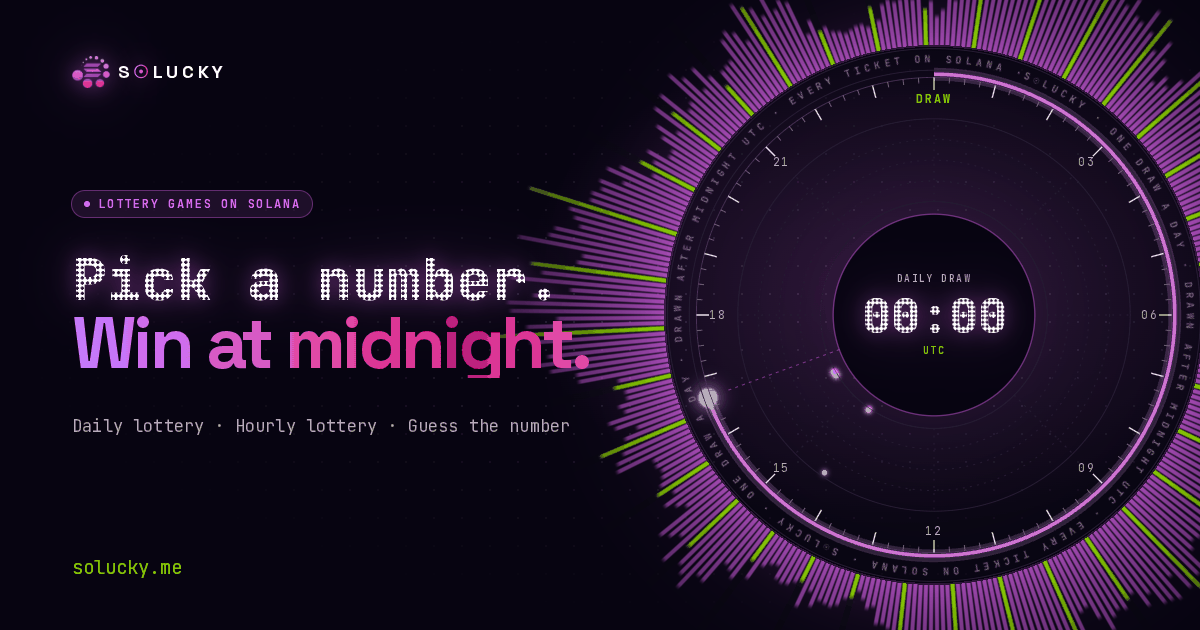
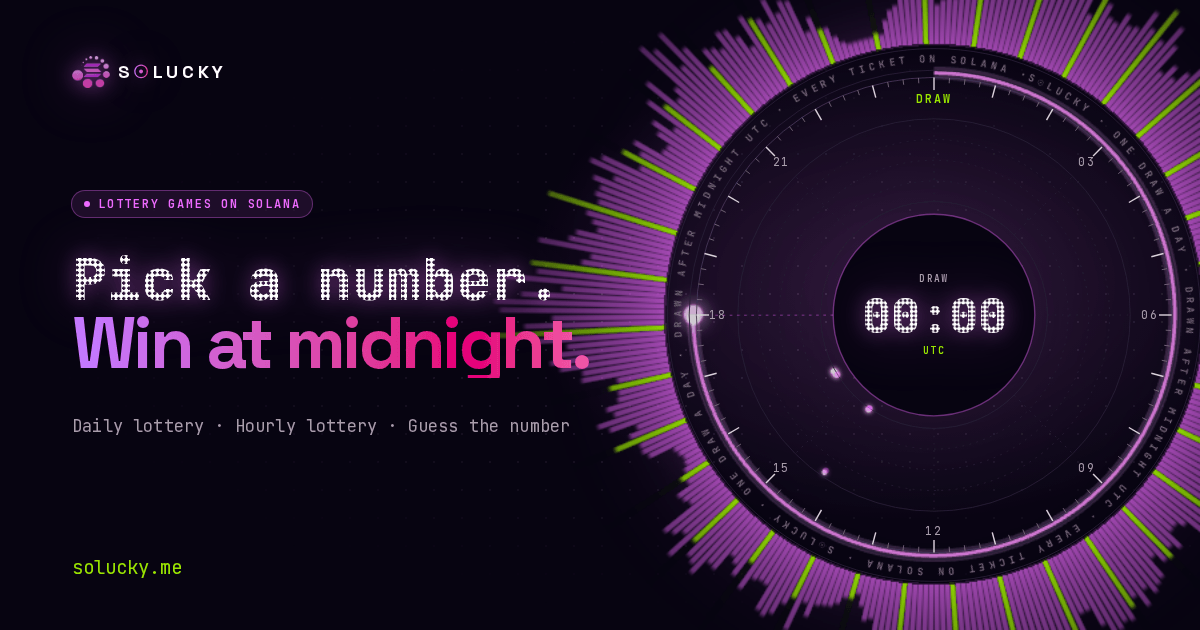
chore(scripts): add the og script for the share card
bun run og <site URL> lays out the landing's hero as the 1200×630 card at app/public/og.png with Playwright and sharp (a new dev dependency). The image is retaken with it, and README and AGENTS.md document the script.

diff --git a/scripts/og.ts b/scripts/og.ts
@@ -1,0 +1,133 @@
+/**
+ * The image that shared links show (app/public/og.png, 1200×630): the
+ * landing's hero, laid out as a card and taken from a running site. Retake it
+ * when the hero changes.
+ *
+ *   bun run og                       the app on http://127.0.0.1:3000
+ *   bun run og https://solucky.me    the live site
+ *
+ * The card keeps what lasts: the headline, the games, and the dial with its
+ * draw time, not today's pot or countdown, which would be stale wherever the
+ * card is shared. It follows the hero's markup in app/app/pages/index.vue and
+ * components/landing/DialLive.vue; change it with them.
+ *
+ * Uses Playwright's Chromium (`bunx playwright install chromium`), or the
+ * browser at CHROME_PATH. Without WebGL 2 the card gets the flat 2D dial.
+ */
+import { chromium } from '@playwright/test';
+import sharp from 'sharp';
+
+import en from '../app/i18n/locales/en';
+
+const site = (process.argv[2] ?? 'http://127.0.0.1:3000').replace(/\/$/, '');
+const file = new URL('../app/public/og.png', import.meta.url).pathname;
+
+const words = {
+  // The live site's address, whichever site the card is taken from.
+  address: 'solucky.me',
+  games: [en.games.daily.name, en.games.hourly.name, en.games.guess.name].join(' · '),
+  draw: en.dial.draw,
+  pot: en.dial.pot,
+  beta: en.header.beta,
+};
+
+const browser = await chromium.launch({ executablePath: process.env.CHROME_PATH });
+const page = await browser.newPage({ viewport: { width: 1200, height: 630 }, colorScheme: 'dark', locale: 'en-US' });
+await page.addInitScript(() => {
+  try {
+    localStorage.setItem('nuxt-color-mode', 'dark');
+  } catch {
+    // about:blank has no storage.
+  }
+});
+await page.goto(site);
+// Today's pot (and the tickets with it) loads after the page.
+await page.waitForFunction(
+  (label) => {
+    const readout = [...document.querySelectorAll('.dial-rise p')].find((p) => p.textContent?.trim() === label);
+    return (readout?.parentElement?.querySelectorAll('.led').length ?? 0) >= 2;
+  },
+  words.pot,
+  { timeout: 60_000 },
+);
+// The 3D dial starts once the page is idle; without WebGL 2 it never does.
+await page.waitForSelector('.landing[data-orrery]', { timeout: 15_000 }).catch(() => {});
+// The headline's entrance and the 3D dial's fade-in.
+await page.waitForTimeout(3_000);
+const orrery = await page.evaluate(layOut, words);
+// The 3D dial eases to the dial's new place.
+await page.waitForTimeout(3_000);
+const shot = await page.screenshot();
+await browser.close();
+
+// A 256-colour palette keeps the file small; the card has few colours.
+await sharp(shot).png({ palette: true, colours: 256, dither: 1, effort: 10 }).toFile(file);
+console.log(`app/public/og.png${orrery ? '' : ' (with the 2D dial: no WebGL 2 in this browser)'}`);
+
+/** Runs in the page: lays the hero out as the card. Returns whether the 3D dial is showing. */
+function layOut(words: { address: string; games: string; draw: string; pot: string; beta: string }) {
+  const hero = document.querySelector<HTMLElement>('section[data-beat="hero"]');
+  const container = hero?.querySelector<HTMLElement>(':scope > div:not([aria-hidden])');
+  const text = container?.firstElementChild as HTMLElement | null;
+  const dial = hero?.querySelector<HTMLElement>('.dial-rise');
+  const label = [...(dial?.querySelectorAll('p') ?? [])].find((p) => p.textContent?.trim() === words.pot);
+  const readout = label?.parentElement;
+  const logo = document.querySelector('header a[href="/"]')?.cloneNode(true) as HTMLElement | undefined;
+  if (!hero || !container || !text || !dial || !readout || !logo) {
+    throw new Error('The hero changed: update scripts/og.ts to its markup.');
+  }
+  const [pot, countdown] = readout.querySelectorAll<HTMLElement>('.led');
+  if (!pot || !countdown) throw new Error("Today's pot has not loaded yet: try again.");
+
+  // The logo, without the Beta badge: the card outlives it.
+  for (const el of logo.querySelectorAll('*')) if (el.textContent?.trim() === words.beta) el.remove();
+  logo.classList.add('og-logo');
+  text.prepend(logo);
+
+  const games = document.createElement('p');
+  games.className = 'og-games font-mono text-muted';
+  games.textContent = words.games;
+  const address = document.createElement('p');
+  address.className = 'og-address font-mono text-secondary';
+  address.textContent = words.address;
+  text.append(games, address);
+
+  // The dial's middle: the draw's time instead of today's pot and countdown.
+  label.textContent = words.draw;
+  pot.textContent = '00:00';
+  countdown.remove();
+  readout.querySelector('.text-muted')?.remove();
+  const day = readout.lastElementChild;
+  if (day) day.textContent = 'UTC';
+  // The scale's ends: 0 and the cluster's highest number, which differs between clusters.
+  [...dial.querySelectorAll('svg g')].find((g) => g.querySelector('text')?.textContent?.trim() === '0')?.remove();
+
+  const style = document.createElement('style');
+  style.textContent = `
+    header, .section-index, [id^='nuxt-devtools'], nuxt-devtools-frame { display: none !important; }
+    html, body { overflow: hidden !important; }
+    section[data-beat='hero'] { height: 630px; }
+    section[data-beat='hero'] ~ * { display: none !important; }
+    section[data-beat='hero'] > div[aria-hidden] > div:last-child { display: none; }
+    section[data-beat='hero'] > div:not([aria-hidden]) {
+      position: relative; display: block; max-width: none; height: 630px; padding: 0;
+    }
+    section[data-beat='hero'] > div:not([aria-hidden]) > div:first-child {
+      position: absolute; inset-block: 0; left: 72px; width: 620px;
+      display: flex; flex-direction: column; align-items: flex-start; justify-content: center;
+    }
+    section[data-beat='hero'] > div:not([aria-hidden]) > div:first-child > :is(p.text-lg, div.mt-8, div.mt-10) {
+      display: none;
+    }
+    .og-logo { position: absolute; top: 56px; left: 0; }
+    .og-games { margin-top: 2.25rem; font-size: 17px; letter-spacing: 0.01em; }
+    .og-address { position: absolute; bottom: 48px; left: 0; font-size: 19px; }
+    .dial-rise { position: absolute !important; left: 664px; top: 45px; width: 540px; max-width: none !important; margin: 0 !important; }
+    .dial-rise > :not(:first-child) { display: none !important; }
+    .animate-blink { animation: none !important; opacity: 1 !important; }
+  `;
+  document.head.append(style);
+  scrollTo(0, 0);
+  dispatchEvent(new Event('resize'));
+  return document.querySelector('.landing')?.hasAttribute('data-orrery') ?? false;
+}

diff --git a/README.md b/README.md
@@ -139,7 +139,7 @@ The program address in the code, `GC81vFcGhBvT9poUzXAFqvfZ8rnAqGVmKUPehrXLq6ux` 
    bun run admin status
    ```
    Later changes: `bun run admin game <daily|hourly|guess> --price <SOL> --fee-bps <n>`, and `bun run admin set --max-number <n>`, `--treasury <ADDRESS>`, `--authority <ADDRESS>`, `--pause`, `--resume`.
-3. **App.** `bun run deploy` builds for Cloudflare Workers and deploys with [`app/wrangler.jsonc`](app/wrangler.jsonc); the manual [Deploy workflow](.github/workflows/deploy.yml) does the same from a commit on GitHub (secrets `CLOUDFLARE_API_TOKEN` and `CLOUDFLARE_ACCOUNT_ID`). The cluster, the site URL and the other network's site (`NUXT_PUBLIC_MAINNET_URL` or `NUXT_PUBLIC_TESTNET_URL`, for the header's network selector) are `vars` in `wrangler.jsonc`, and each deploy replaces the variables set in the dashboard with them. Use a dedicated RPC endpoint in production (the public ones answer HTTP 429 under load) and keep it out of the repository: `wrangler secret put NUXT_PUBLIC_RPC_URL` and, for QuickNode, `wrangler secret put NUXT_PUBLIC_RPC_TOKEN` (secrets survive deploys; the app still sends both to every browser, so restrict the endpoint to the site's domains at the provider). `bun run build` produces a Node server in `app/.output` instead. The app installs as a PWA and updates itself: a page left open offers each deploy within ten minutes and loads it on its next page change, and an installed app gets it on its next launch. Its install screenshots come from the play page: retake them with `bun run screenshots <site URL>` when the page changes.
+3. **App.** `bun run deploy` builds for Cloudflare Workers and deploys with [`app/wrangler.jsonc`](app/wrangler.jsonc); the manual [Deploy workflow](.github/workflows/deploy.yml) does the same from a commit on GitHub (secrets `CLOUDFLARE_API_TOKEN` and `CLOUDFLARE_ACCOUNT_ID`). The cluster, the site URL and the other network's site (`NUXT_PUBLIC_MAINNET_URL` or `NUXT_PUBLIC_TESTNET_URL`, for the header's network selector) are `vars` in `wrangler.jsonc`, and each deploy replaces the variables set in the dashboard with them. Use a dedicated RPC endpoint in production (the public ones answer HTTP 429 under load) and keep it out of the repository: `wrangler secret put NUXT_PUBLIC_RPC_URL` and, for QuickNode, `wrangler secret put NUXT_PUBLIC_RPC_TOKEN` (secrets survive deploys; the app still sends both to every browser, so restrict the endpoint to the site's domains at the provider). `bun run build` produces a Node server in `app/.output` instead. The app installs as a PWA and updates itself: a page left open offers each deploy within ten minutes and loads it on its next page change, and an installed app gets it on its next launch. Its install screenshots come from the play page: retake them with `bun run screenshots <site URL>` when the page changes. The image that shared links show (`app/public/og.png`) is the landing's hero, laid out as a card: retake it with `bun run og <site URL>` when the hero changes.
    **Draw notifications** are optional. `bun run vapid` prints new keys: set `NUXT_PUBLIC_VAPID_KEY` in `vars`, the private key and the push secret with `wrangler secret put NUXT_VAPID_PRIVATE_KEY` and `wrangler secret put NUXT_PUSH_SECRET`, and give the crank the site's URL and the same secret (below). The first deploy creates the `PUSH` KV namespace for the subscriptions and writes its id into `app/wrangler.jsonc`: commit it. On Node, subscriptions are files in `.data/push` under the working directory. Without a VAPID key, the bell on the play page stays hidden.
 4. **Crank.** Run `bun run crank --watch --interval 10` as a service (systemd, a container, a small VM) so lottery rounds are drawn within seconds of their end and Guess players get their check within seconds; it polls every 3 seconds while guesses wait. [`.github/workflows/crank.yml`](.github/workflows/crank.yml) is a backup, since scheduled Actions often start minutes late: enable it with the repository variable `SOLUCKY_CRANK_ENABLED=true`, the variable `SOLANA_RPC_URL` and the secret `SOLANA_KEYPAIR_JSON` (and, for notifications, the variable `SOLUCKY_APP_URL` and the secret `SOLUCKY_PUSH_SECRET`). Each crank reports the draws it makes to the app, which notifies the players who asked. Use a dedicated, lightly funded keypair: the crank never needs authority.
 5. **Monitoring.** `bun run monitor --crank <CRANK ADDRESS>` exits with an error when buying a ticket in any game fails in simulation (it simulates one unsigned purchase per game, so a broken program, client or RPC shows up before players hit it), when a finished lottery round is still unsettled 15 minutes after it ended, when a Guess winner is still unpaid, or when the crank holds less than ◎0.05; with `ALERT_WEBHOOK_URL` set it also posts to a Slack or Discord webhook. [`.github/workflows/monitor.yml`](.github/workflows/monitor.yml) runs it twice a day once the repository variable `SOLUCKY_MONITOR_ENABLED=true` is set (with the variables `SOLANA_RPC_URL` and `SOLUCKY_CRANK`, and the secret `ALERT_WEBHOOK_URL`); GitHub also emails you when a run fails.

diff --git a/AGENTS.md b/AGENTS.md
@@ -10,7 +10,7 @@ S☉Lucky, lottery games on Solana by Nexow, Inc. (nexow.studio): a daily lotter
 - `idl/solucky.json`: committed IDL, source of the generated client.
 - `clients/js`: `@solucky/client`. `src/generated` is Codama output (never edit); the other files in `src` are hand-written.
 - `app`: Nuxt 4 + Nuxt UI 4 + Tailwind 4. Kit client and wallet in `app/app/composables/useSolana.ts` and `useWallet.ts`; game state in `useLottery.ts` (one state per game; `useGame()` reads the game from the route); the play table in `components/lottery/` (`Stage`, `PlayPanel` with its `NumberLine`, `TicketsPanel`, `HistoryPanel`, `DrawReveal`), the number line's odds in `utils/line.ts`. 20 languages with @nuxtjs/i18n: the list in `app/i18n/languages.ts`, the words in `app/i18n/locales/` (`en.ts` is the source and the type). Installable PWA: `app/public/manifest.webmanifest`, `app/public/sw.js` (the build writes its id in; see `nuxt.config.ts`) and `app/app/plugins/pwa.client.ts`. Draw notifications: `app/server/api/push/`, `app/server/utils/push.ts` and `webpush.ts` (Web Push on WebCrypto); the crank reports draws with `reportDraw` in `scripts/lib.ts`. Search and AI assistants: `app/server/utils/seo.ts` builds `/sitemap.xml`, `/robots.txt`, `/llms.txt` (routes in `app/server/routes/`) and the localized head of the browser-only pages' HTML shell (`app/server/plugins/shellHead.ts`); the landing's JSON-LD is `app/app/utils/structuredData.ts`. Motion: shared utilities (`reveal-*`, `rise`, `ignite`, view transitions) in `main.css`, pointer tilt in `useTilt.ts`; every animation stops under `prefers-reduced-motion`.
-- `scripts`: bun scripts `admin`, `crank`, `monitor`, `localnet`, `e2e`, `vapid` (push keys) and `screenshots` (the manifest's) sharing `lib.ts`, `settle.ts` and `surfnet.ts` (Surfpool cheatcodes, local only).
+- `scripts`: bun scripts `admin`, `crank`, `monitor`, `localnet`, `e2e`, `vapid` (push keys), `screenshots` (the manifest's) and `og` (the share card, `app/public/og.png`) sharing `lib.ts`, `settle.ts` and `surfnet.ts` (Surfpool cheatcodes, local only).
 
 ## Commands
 
